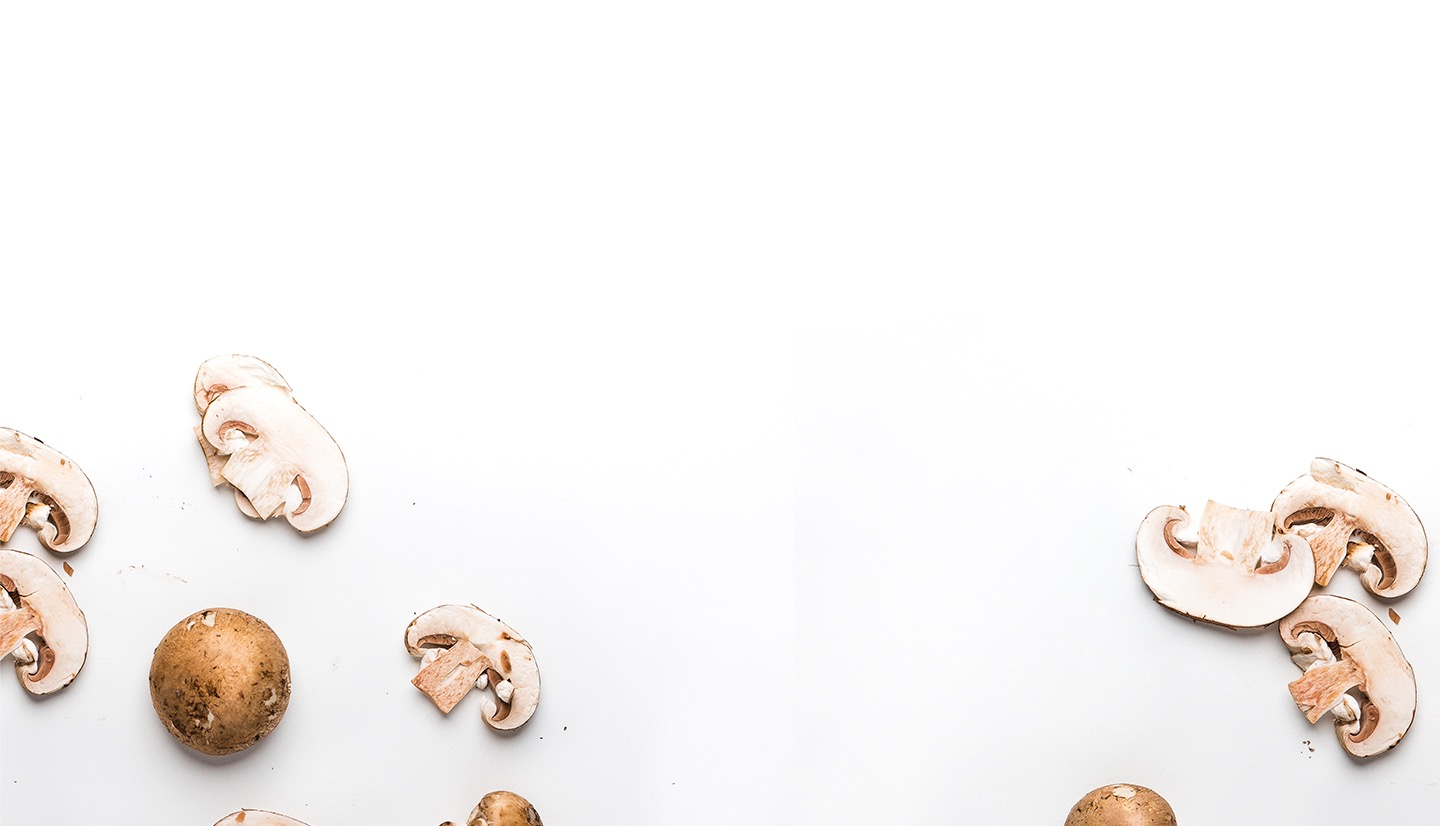
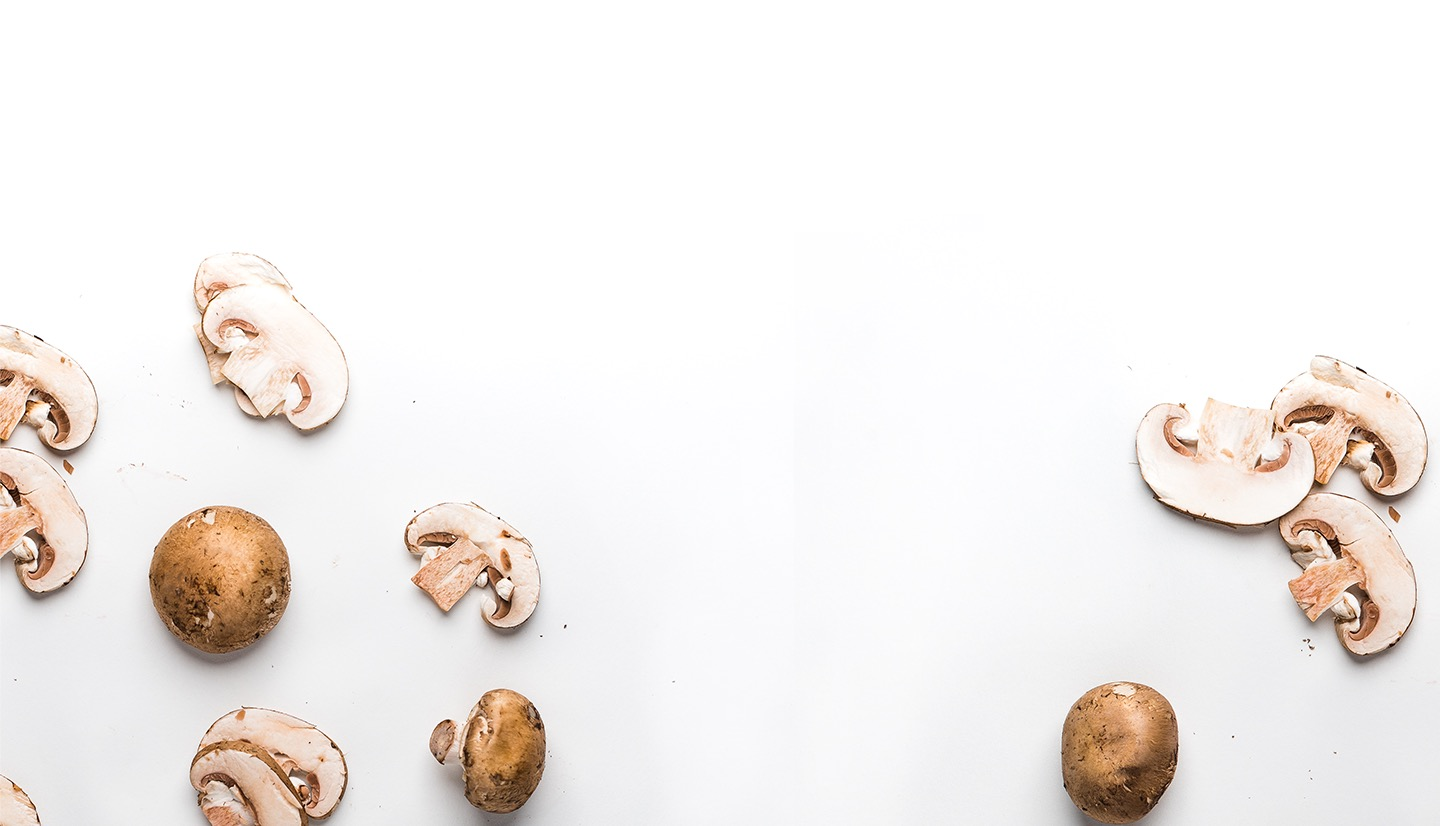
Adds spacing stuff

diff --git a/app/stylesheets/screens/Work/screens/SizzlingPlatter/sections/_squarespace.scss b/app/stylesheets/screens/Work/screens/SizzlingPlatter/sections/_squarespace.scss
@@ -1,21 +1,18 @@
 .squarespace {
   position: relative;
-  margin-top: rem-calc(130);
-
-  // &__item {
-  //   position: absolute;
-  //   left:50%;
-  //   top: 0;
-  //   transform: translate3d(-50%, 0, 0);
-  // }
-  &__item-img {
-    margin-bottom: rem-calc(50);
-  }
+  margin-top: rem-calc(50);
+  @include respond-to(sm) { margin-top: rem-calc(80);  }
+  @include respond-to(md) { margin-top: rem-calc(100); }
+  &__item-img { margin-bottom: rem-calc(25); }
   &__item-laptop {
-    padding: rem-calc(140) rem-calc(32);
+    padding: rem-calc(50) rem-calc(16) rem-calc(50);
     position: relative;
-    respond-to(sm) { padding: rem-calc(100) rem-calc(32) rem-calc(100); }
-    respond-to(lg) { padding: rem-calc(150) rem-calc(32) rem-calc(150); }
+    @include respond-to(sm) {
+      padding-bottom: rem-calc(80);
+      padding-left: 0;
+      padding-right: 0;
+    }
+    @include respond-to(sm) { padding-bottom: rem-calc(100); }
   }
   &__parallax {
     width: rem-calc($splat-ss-width * .5);
@@ -26,12 +23,10 @@
     margin-left: auto;
     margin-right: auto;
     transform: translateX(-50%);
-
     @include respond-to(sm) {
       width: rem-calc($splat-ss-width * .7);
       height: rem-calc($splat-ss-height * .7);
     }
-
     @include respond-to(md) {
       width: rem-calc($splat-ss-width);
       height: rem-calc($splat-ss-height);
@@ -47,11 +42,9 @@
         height: 100%;
       }
     }
-
     &__container {
       position: absolute;
       display: block;
-
       &--js0 {
         left: percentage( 0 / $splat-ss-width);
         top: percentage( 128 / $splat-ss-height);
@@ -59,18 +52,12 @@
       &--close0-red {
         left: percentage( 184 / $splat-ss-width);
         top: percentage( 0 / $splat-ss-height);
-
-        svg .cls-2 {
-          fill: $splat-ss-red;
-        }
+        svg .cls-2 { fill: $splat-ss-red; }
       }
       &--close1-red {
         left: percentage( 935 / $splat-ss-width);
         top: percentage( 931 / $splat-ss-height);
-
-        svg .cls-2 {
-          fill: $splat-ss-red;
-        }
+        svg .cls-2 { fill: $splat-ss-red; }
       }
       &--react0 {
         left: percentage( 1263 / $splat-ss-width);
@@ -83,18 +70,12 @@
       &--semi0-red {
         left: percentage( 129 / $splat-ss-width);
         top: percentage( 622 / $splat-ss-height);
-
-        svg .cls-2 {
-          fill: $splat-ss-red;
-        }
+        svg .cls-2 { fill: $splat-ss-red; }
       }
       &--leftcurl-red {
         left: percentage( 278/ $splat-ss-width);
         top: percentage(481 / $splat-ss-height);
-
-        svg .cls-2 {
-          fill: $splat-ss-red;
-        }
+        svg .cls-2 { fill: $splat-ss-red; }
       }
       &--head {
         left: percentage( 406 / $splat-ss-width);
@@ -107,18 +88,12 @@
       &--divclose-red {
         left: percentage( 242 / $splat-ss-width);
         top: percentage( 860 / $splat-ss-height);
-
-        svg .cls-2 {
-          fill: $splat-ss-red;
-        }
+        svg .cls-2 { fill: $splat-ss-red; }
       }
       &--semi1-red {
         left: percentage( 11 / $splat-ss-width);
         top: percentage( 860 / $splat-ss-height);
-
-        svg .cls-2 {
-          fill: $splat-ss-red;
-        }
+        svg .cls-2 { fill: $splat-ss-red; }
       }
       &--function {
         left: percentage( 589 / $splat-ss-width);
@@ -135,10 +110,7 @@
       &--rightcurl-red {
         left: percentage( 974 / $splat-ss-width);
         top: percentage( 341 / $splat-ss-height);
-
-        svg .cls-2 {
-          fill: $splat-ss-red;
-        }
+        svg .cls-2 { fill: $splat-ss-red; }
       }
       &--paren1 {
         left: percentage( 40 / $splat-ss-width);

diff --git a/app/stylesheets/screens/Work/screens/SizzlingPlatter/sections/_hero.scss b/app/stylesheets/screens/Work/screens/SizzlingPlatter/sections/_hero.scss
@@ -3,6 +3,7 @@
   background-color: #0A0808;
   height: 70vh;
   overflow: hidden;
+  text-align: center;
   @include respond-to(sm) { height: rem-calc(615); }
   @include respond-to(md) { height: rem-calc(720); }
   @include respond-to(lg) { height: 90vh; }
@@ -20,10 +21,45 @@
     background-position: center center;
     background-size: cover;
     opacity: 0;
-    transition: opacity 1000ms ease;
+    transition: opacity 800ms ease;
   }
   &-loaded {
-    .hero--splat-background { opacity: 1; }
+    .hero--splat-background,
+    .hero--splat-logo { opacity: 1; }
+  }
+  &:before {
+    content: " ";
+    display: inline-block;
+    vertical-align: middle;;
+    width: 1%;
+    height: 70vh;
+    @include respond-to(sm) { height: rem-calc(615); }
+    @include respond-to(md) { height: rem-calc(720); }
+    @include respond-to(lg) { height: 90vh; }
+  }
+  &-logo {
+    position: relative;
+    display: inline-block;
+    vertical-align: middle;
+    z-index: 10;
+    width: 100%;
+    opacity: 0;
+    transition: opacity 600ms ease;
+    transition-delay: 400ms;
+    max-width: rem-calc(280);
+    @include respond-to(xs) { display: none; }
+    &__inner {
+      position: relative;
+      height: 0;
+      padding-bottom: percentage(67.5 / 176.1);
+    }
+    svg {
+      position: absolute;
+      width: 100%;
+      height: 100%;
+      top: 0;
+      left: 0;
+    }
   }
   &-container {
     position: absolute;
@@ -53,10 +89,12 @@
       bottom: rem-calc(-465);
     }
     &:nth-child(1) {
+      display: none;
       top: percentage(120 / 550);
       left: 50%;
       transform: translateX(-50%);
-      @include respond-to(sm) { top: percentage(158 / 615); bottom: initial; }
+      @include respond-to(xs) { display: inline-block; }
+      @include respond-to(sm) { top: percentage(158 / 615); }
       @include respond-to(md) { top: percentage(186 / 720); }
     }
     &:nth-child(2) { right: percentage(725 / 1440); }
@@ -68,12 +106,8 @@
       max-width: rem-calc(470);
       top: percentage(350 / 720);
       bottom: 0;
-      @include respond-to(sm) {
-        display: inline-block;
-      }
-      @include respond-to(md) {
-        max-width: rem-calc(560);
-      }
+      @include respond-to(sm) { display: inline-block; }
+      @include respond-to(md) { max-width: rem-calc(560); }
     }
     img {
       opacity: 0;

diff --git a/app/screens/App/screens/Work/screens/SizzlingPlatter/components/Ingredients.js b/app/screens/App/screens/Work/screens/SizzlingPlatter/components/Ingredients.js
@@ -52,7 +52,7 @@ class Ingredients extends Component {
         <div className="ingredients-container">
           <div ref="element" className="fadeInUp ingredients-container__item ingredients-copy">
             <h1>A Dash of Photoraphy</h1>
-            <p>The Underbelly team loves to incorporate custom photography whenever possible. We knew from day one we’d want to embark on a photoshoot for this project. We wanted crisp, clean photos taken at actual SPLAT locations around the valley, not boring stock photos. Not only did get great shots on location, but we held an in-house photoshoot to get shots of ingredients like pepperoni, mushrooms, and even sprinkles! Pulling together high quality, custom photos allowed the best assets possible for our client and the site…nevermind the fact that it left us craving pizza and donuts every time we worked on the site.</p>
+            <p>The Underbelly team loves to incorporate custom photography whenever possible. We knew from day one we’d want to embark on a photoshoot for this project. We wanted crisp, clean photos taken at actual SPLAT locations around the valley, not boring stock photos. Not only did get great shots on location, but we held an in-house photoshoot to get shots of ingredients like pepperoni, mushrooms, and even sprinkles! Pulling together high quality, custom photos allowed the best assets possible for our client and the site, nevermind the fact that it left us craving pizza and donuts every time we worked on&nbsp;the&nbsp;site.</p>
           </div>
         </div>
         <div className="ingredients-hero"></div>

diff --git a/app/stylesheets/screens/Work/screens/SizzlingPlatter/sections/_designDev.scss b/app/stylesheets/screens/Work/screens/SizzlingPlatter/sections/_designDev.scss
@@ -1,15 +1,16 @@
 .design-dev {
   text-align: center;
-  color: #6E6B6B;
-  padding: rem-calc(50) 0;
+  padding-top: rem-calc(50);
+  padding-bottom: rem-calc(50);
   overflow: hidden;
-
+  &__item { margin-bottom: rem-calc(40); }
   @include respond-to(sm) {
     background-image: url('../images/work/sizzling-platter/design-dev/bg-left-tablet.png'),
     url('../images/work/sizzling-platter/design-dev/bg-right-tablet.png');
     background-repeat: no-repeat, no-repeat;
     background-position: 0 50px, 100% 50px;
-    padding-top: rem-calc(250);
+    padding-top: rem-calc(80);
+    padding-bottom: rem-calc(80);
   }
 
   @include respond-to(md) {
@@ -17,9 +18,8 @@
     url('../images/work/sizzling-platter/design-dev/bg-right-desktop.png');
     background-repeat: no-repeat, no-repeat;
     background-position: 0 25px, 100% 25px;
-    padding-top: rem-calc(150);
-    padding-bottom: rem-calc(120);
-
+    padding-top: rem-calc(100);
+    padding-bottom: rem-calc(100);
   }
 
   @include respond-to(lg) {
@@ -27,6 +27,7 @@
     url('../images/work/sizzling-platter/design-dev/design-dev-bg-right.png');
     background-repeat: no-repeat, no-repeat;
     background-position: 0 0, 100% 0;
-    padding-top: rem-calc(215);
+    padding-top: rem-calc(180);
+    padding-bottom: rem-calc(180);
   }
 }

diff --git a/app/stylesheets/screens/Work/screens/SizzlingPlatter/sections/_prep.scss b/app/stylesheets/screens/Work/screens/SizzlingPlatter/sections/_prep.scss
@@ -4,12 +4,15 @@
   background-color: $splat-primary;
   @include hero('../images/work/sizzling-platter/prep/shrooms.jpg');
   background-position: 50% 100%;
-  background-size: 100% auto;
+  background-size: 132% auto;
   padding: rem-calc(50) 0 rem-calc(255);
-  @include respond-to(sm) { padding: rem-calc(150) 0 rem-calc(285); }
-  &-container {
-    width: 90%;
-    text-align: center;
-    @include respond-to(sm) { text-align: center; }
+  @include respond-to(xs) { background-size: 110% auto; }
+  @include respond-to(sm) {
+    padding-top: rem-calc(80);
+    padding-bottom: rem-calc(285);
+    background-size: 100% auto;
   }
+  @include respond-to(md) { padding-top: rem-calc(100); }
+  @include respond-to(lg) { background-size: 1440px auto; padding-top: rem-calc(180); }
+  &-container { text-align: center; }
 }

diff --git a/app/screens/App/screens/Work/screens/SizzlingPlatter/components/Hero.js b/app/screens/App/screens/Work/screens/SizzlingPlatter/components/Hero.js
@@ -32,6 +32,9 @@ class Hero extends Component {
     return (
       <div className={`hero--splat ${loaded} ${active}`} ref="heroSplat">
         <div className="hero--splat-background" style={style} />
+        <div className="hero--splat-logo">
+          <div className="hero--splat-logo__inner" dangerouslySetInnerHTML={{ __html: hero.logo }}></div>
+        </div>
         <div className="hero--splat-container">
           <div className="hero--splat-container__item hero--splat-container__item--first"><img src={hero.one} /></div>
           <div className="hero--splat-container__item hero--splat-container__item--last" ><img src={hero.two} /></div>

diff --git a/app/stylesheets/screens/Work/screens/SizzlingPlatter/sections/_patterns.scss b/app/stylesheets/screens/Work/screens/SizzlingPlatter/sections/_patterns.scss
@@ -29,7 +29,6 @@
       @include respond-to(lg) { margin-bottom: rem-calc(180); }
     }
   }
-
   &-type {
     font-size: rem-calc(17);
     line-height: rem-calc(36);
@@ -40,7 +39,6 @@
     margin-right: auto;
     @include respond-to(sm) { max-width: rem-calc(323); font-size: rem-calc(24); }
   }
-
   &-colors {
     text-align: center;
     font-size: 0;
@@ -78,11 +76,9 @@
       &--black-dark   { background-color: #090808; }
     }
   }
-
   &__item {
     position: absolute;
     z-index: 1;
-
     &:nth-child(2) {
       top: rem-calc(-75);
       left: rem-calc(-100);

diff --git a/app/stylesheets/screens/Work/screens/SizzlingPlatter/_sizzling-platter.scss b/app/stylesheets/screens/Work/screens/SizzlingPlatter/_sizzling-platter.scss
@@ -24,8 +24,6 @@ $splat-lato-light: 300;
   @import "./sections/squarespace";
 
   [class$="container"] {
-    position: relative;
-    width: 99%;
     margin: 0 auto;
     @include respond-to(xs) {max-width: $splat-xs;}
     @include respond-to(sm) {max-width: $splat-sm; padding-left: 0; padding-right: 0;}
@@ -35,7 +33,7 @@ $splat-lato-light: 300;
   h1 {
     font-weight: $splat-lato-light;
     text-transform: uppercase;
-    margin-bottom: rem-calc(30);
+    margin-bottom: rem-calc(25);
     line-height: 1.5;
   }
 

diff --git a/app/screens/App/screens/Work/screens/SizzlingPlatter/Data/index.js b/app/screens/App/screens/Work/screens/SizzlingPlatter/Data/index.js
@@ -11,7 +11,8 @@ let images = {
     bg   : requireSplatFile("hero/hero.jpg"),
     one  : requireSplatFile("hero/01.jpg"),
     two  : requireSplatFile("hero/02.jpg"),
-    three: requireSplatFile("hero/03.jpg")
+    three: requireSplatFile("hero/03.jpg"),
+    logo : requireSplatFile("hero/splat-logo-02.svg")
   },
   patterns: {
     peppers   : requireSplatFile("patterns/peppers.png"),

diff --git a/app/stylesheets/screens/Work/screens/SizzlingPlatter/sections/_ingredients.scss b/app/stylesheets/screens/Work/screens/SizzlingPlatter/sections/_ingredients.scss
@@ -2,7 +2,9 @@
   background: #040203;
   text-align: center;
   padding-top: rem-calc(50);
-  @include respond-to(sm) { padding-top: rem-calc(150); }
+  @include respond-to(sm) { padding-top: rem-calc(80); }
+  @include respond-to(md) { padding-top: rem-calc(100); }
+  @include respond-to(lg) { padding-top: rem-calc(180); }
   h1, p { color: #fff; }
   &-hero {
     background: #040203;

diff --git a/app/stylesheets/screens/Work/screens/shared/components/_phone-slider.scss b/app/stylesheets/screens/Work/screens/shared/components/_phone-slider.scss
@@ -5,7 +5,6 @@
   position: relative;
   width: 100%;
   max-width: rem-calc(370);
-  margin-top: rem-calc(50);
   margin-left: auto;
   margin-right: auto;
   padding-left: rem-calc(20);
